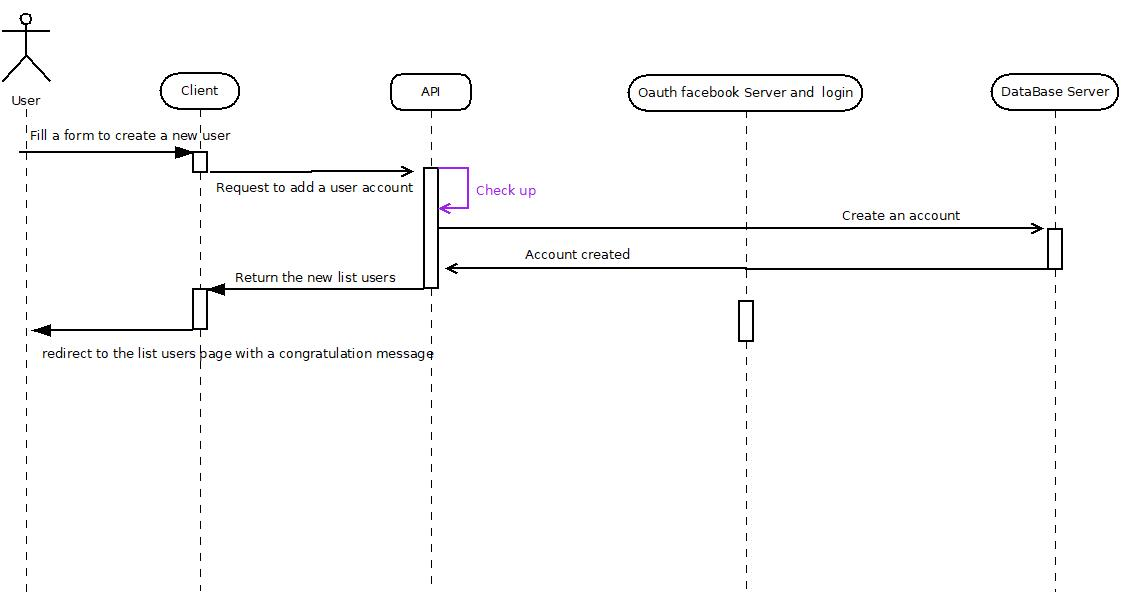
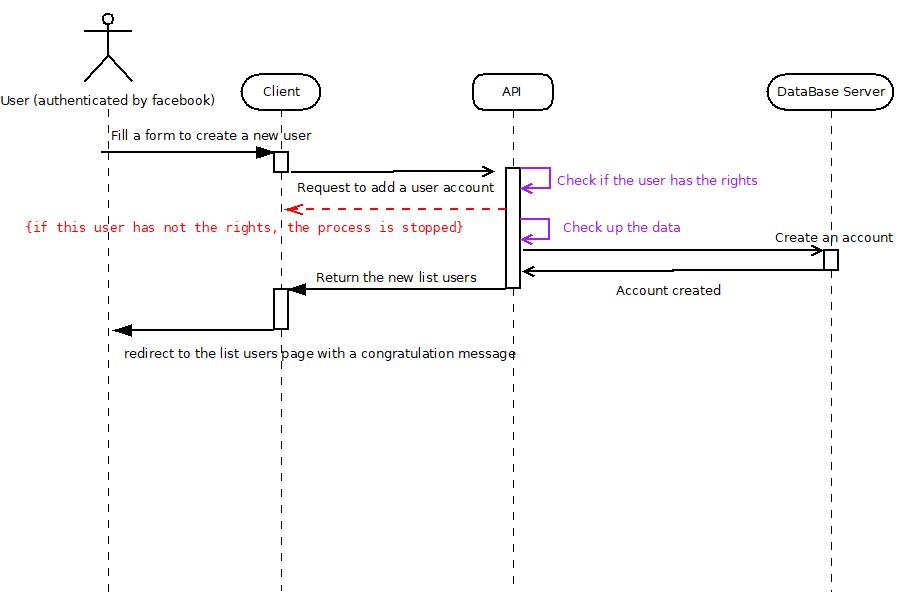
correction of several error detected by sensiolab

diff --git a/src/AppBundle/Representation/ProducesRepresentation.php b/src/AppBundle/Representation/ProducesRepresentation.php
@@ -2,46 +2,12 @@
 
 namespace AppBundle\Representation;
 
-use Pagerfanta\Pagerfanta;
 use JMS\Serializer\Annotation\Type;
-use Hateoas\Configuration\Annotation as Hateoas;
 
-/**
- * @Hateoas\Relation(
- *     "authenticated_user",
- *     embedded = @Hateoas\Embedded("expr(service('security.token_storage').getToken().getUser())")
- * )
- */
-class ProducesRepresentation
+class ProducesRepresentation extends AbstractRepresentation
 {
     /**
      * @Type("array<AppBundle\Entity\Produces>")
      */
     public $data;
-
-    public $meta;
-
-    public function __construct(Pagerfanta $data)
-    {
-        $this->data = $data->getCurrentPageResults();
-
-        $this->addMeta('limit', $data->getMaxPerPage());
-        $this->addMeta('current_items', count($data->getCurrentPageResults()));
-        $this->addMeta('total_items', $data->getNbResults());
-        $this->addMeta('offset', $data->getCurrentPageOffsetStart());
-    }
-
-    public function addMeta($name, $value)
-    {
-        if (isset($this->meta[$name])) {
-            throw new \LogicException(sprintf('This meta already exists. You are trying to override this meta, use the setMeta method instead for the %s meta.', $name));
-        }
-
-        $this->setMeta($name, $value);
-    }
-
-    public function setMeta($name, $value)
-    {
-        $this->meta[$name] = $value;
-    }
 }

diff --git a/src/AppBundle/Representation/UserRepresentation.php b/src/AppBundle/Representation/UserRepresentation.php
@@ -2,46 +2,12 @@
 
 namespace AppBundle\Representation;
 
-use Pagerfanta\Pagerfanta;
 use JMS\Serializer\Annotation\Type;
-use Hateoas\Configuration\Annotation as Hateoas;
 
-/**
- * @Hateoas\Relation(
- *     "authenticated_user",
- *     embedded = @Hateoas\Embedded("expr(service('security.token_storage').getToken().getUser())")
- * )
- */
-class UserRepresentation
+class UserRepresentation extends AbstractRepresentation
 {
     /**
      * @Type("array<AppBundle\Entity\User>")
      */
     public $data;
-
-    public $meta;
-
-    public function __construct(Pagerfanta $data)
-    {
-        $this->data = $data->getCurrentPageResults();
-
-        $this->addMeta('limit', $data->getMaxPerPage());
-        $this->addMeta('current_items', count($data->getCurrentPageResults()));
-        $this->addMeta('total_items', $data->getNbResults());
-        $this->addMeta('offset', $data->getCurrentPageOffsetStart());
-    }
-
-    public function addMeta($name, $value)
-    {
-        if (isset($this->meta[$name])) {
-            throw new \LogicException(sprintf('This meta already exists. You are trying to override this meta, use the setMeta method instead for the %s meta.', $name));
-        }
-
-        $this->setMeta($name, $value);
-    }
-
-    public function setMeta($name, $value)
-    {
-        $this->meta[$name] = $value;
-    }
 }

diff --git a/src/AppBundle/Representation/AbstractRepresentation.php b/src/AppBundle/Representation/AbstractRepresentation.php
@@ -1,0 +1,43 @@
+<?php
+
+namespace AppBundle\Representation;
+
+use Pagerfanta\Pagerfanta;
+use Hateoas\Configuration\Annotation as Hateoas;
+
+/**
+ * @Hateoas\Relation(
+ *     "authenticated_user",
+ *     embedded = @Hateoas\Embedded("expr(service('security.token_storage').getToken().getUser())")
+ * )
+ */
+class AbstractRepresentation
+{
+    public $data;
+
+    public $meta;
+
+    public function __construct(Pagerfanta $data)
+    {
+        $this->data = $data->getCurrentPageResults();
+
+        $this->addMeta('limit', $data->getMaxPerPage());
+        $this->addMeta('current_items', count($data->getCurrentPageResults()));
+        $this->addMeta('total_items', $data->getNbResults());
+        $this->addMeta('offset', $data->getCurrentPageOffsetStart());
+    }
+
+    public function addMeta($name, $value)
+    {
+        if (isset($this->meta[$name])) {
+            throw new \LogicException(sprintf('This meta already exists. You are trying to override this meta, use the setMeta method instead for the %s meta.', $name));
+        }
+
+        $this->setMeta($name, $value);
+    }
+
+    public function setMeta($name, $value)
+    {
+        $this->meta[$name] = $value;
+    }
+}

diff --git a/src/AppBundle/EventSubscriber/ExceptionListener.php b/src/AppBundle/EventSubscriber/ExceptionListener.php
@@ -28,11 +28,12 @@ class ExceptionListener implements EventSubscriberInterface
 
     public function processException(GetResponseForExceptionEvent $event)
     {
-        foreach ($this->normalizers as $normalizer) {
+        foreach ($this->normalizers as $normalizer)
+        {
             $result = $normalizer->normalize($event->getException());
         }
 
-        if (null == $result) {
+        if (null === $result) {
 
             $result['code'] = Response::HTTP_BAD_REQUEST;
 

diff --git a/src/AppBundle/Controller/ProducesController.php b/src/AppBundle/Controller/ProducesController.php
@@ -187,7 +187,7 @@ class ProducesController extends FOSRestController
 	 *				"name"="id",
 	 *				"dataType"="integer",
 	 *				"requirement"="\d+",
-	 *				"description"="The produce unique identifier."
+	 *				"description"="The produce unique identifier.  Show how to create a produce to know the keys what you can change"
      * 			}
 	 *		},
      *      statusCodes={

diff --git a/src/AppBundle/Controller/UserController.php b/src/AppBundle/Controller/UserController.php
@@ -191,7 +191,7 @@ class UserController extends FOSRestController
 	 *				"name"="id",
 	 *				"dataType"="integer",
 	 *				"requirement"="\d+",
-	 *				"description"="The user unique identifier."
+	 *				"description"="The user unique identifier. Show how to create a user to know the keys what you can change"
      * 			}
 	 *		},
      *      statusCodes={

diff --git a/src/AppBundle/Repository/UserRepository.php b/src/AppBundle/Repository/UserRepository.php
@@ -22,3 +22,4 @@ class UserRepository  extends AbstractRepository
         return $this->paginate($qb, $limit, $offset);
     }
 }
+
